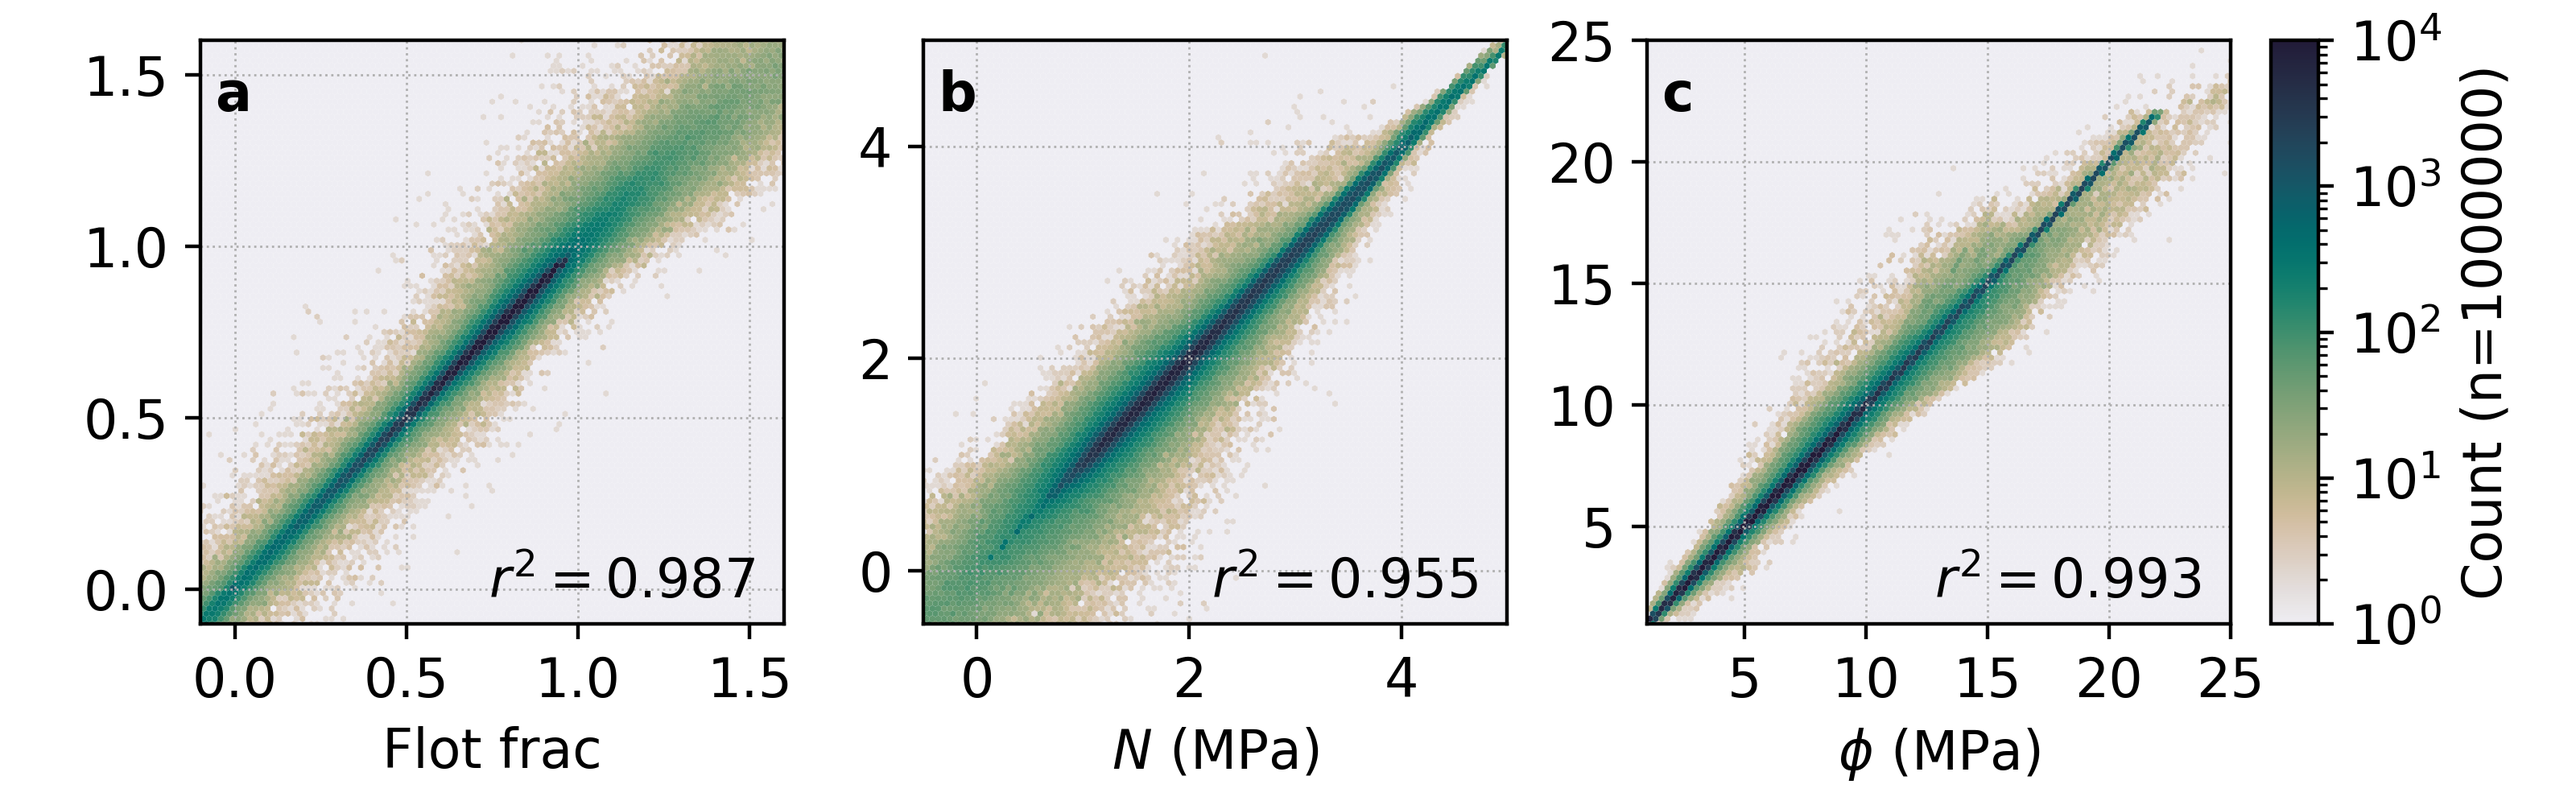
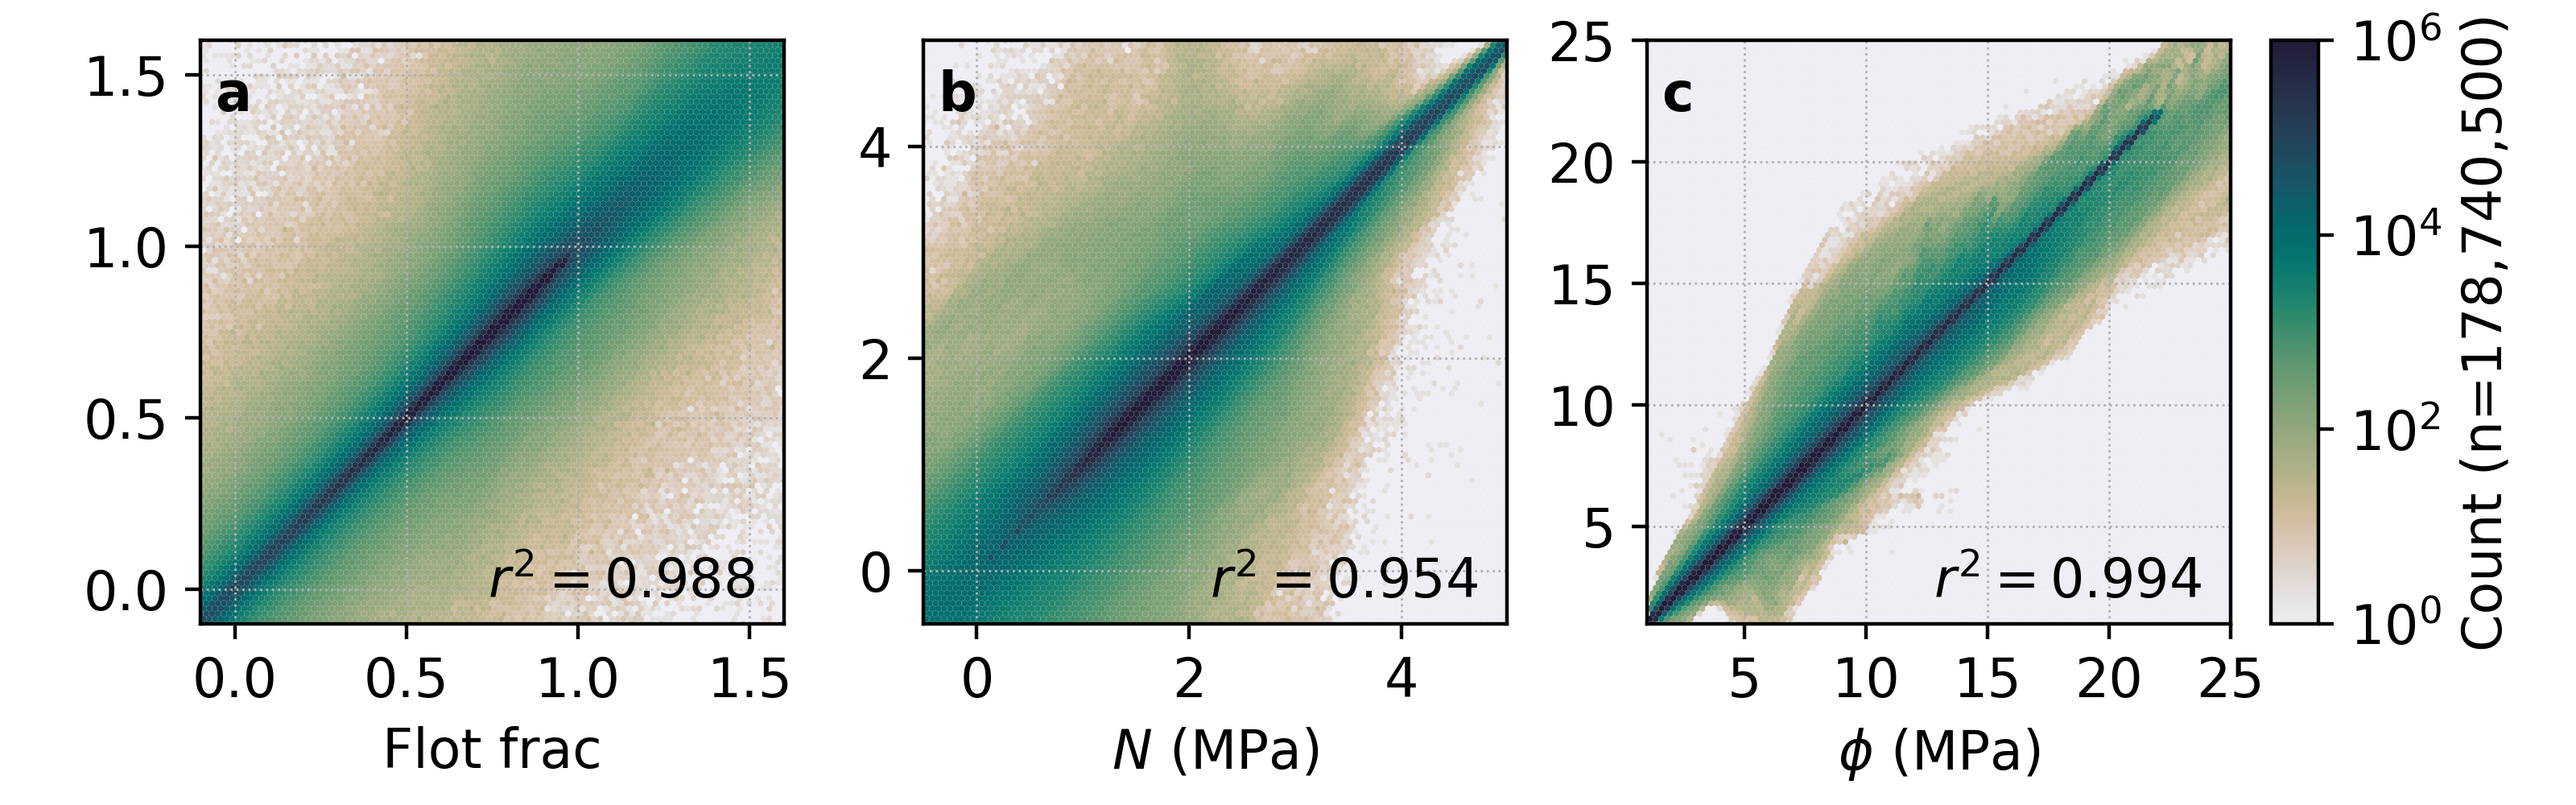
Scatter plot all data

diff --git a/experiments/greenland/analysis/plot_test_error.py b/experiments/greenland/analysis/plot_test_error.py
@@ -216,15 +216,15 @@ def plot_scatter(config, y_sim, ypred_mean):
     axs = np.array([fig.add_subplot(gs[2*i]) for i in range(3)])
     cax = fig.add_subplot(gs[-1])
     rng = np.random.default_rng()
-    rng_inds = rng.choice(np.arange(int(np.prod(y_sim.shape)/2)), size=int(1e6), replace=False)
-    y_sim_scatter = y_sim.flat[rng_inds]
-    y_pred_scatter = ypred_mean.flat[rng_inds]
+    # rng_inds = rng.choice(np.arange(int(np.prod(y_sim.shape)/2)), size=int(1e6), replace=False)
+    y_sim_scatter = y_sim.flatten()
+    y_pred_scatter = ypred_mean.flatten()
 
     # surf = 390 + 6*( (np.sqrt(nodexy[:, 0] + 5e3) - np.sqrt(5e3)))
     # bed = 350
     # thick = surf - bed
-    surf = np.load('../issm/data/geom/IS_surface.npy')
-    bed = np.load('../issm/data/geom/IS_bed.npy')
+    surf = np.load('../issm/data/geom/IS_surface.npy').astype(np.float32)
+    bed = np.load('../issm/data/geom/IS_bed.npy').astype(np.float32)
     thick = surf - bed
     thick[thick<10] = 10
 
@@ -233,20 +233,20 @@ def plot_scatter(config, y_sim, ypred_mean):
     g = 9.8
 
     p_i_spatial = g*rho_i*thick
-    p_i = np.tile(np.vstack(p_i_spatial), (1, 365))
+    p_i = np.tile(np.vstack(p_i_spatial, dtype=np.float32), (1, 365))
     p_i = np.tile(p_i, (config.m, 1, 1))
     p_i = p_i.reshape(y_sim.shape)
 
     bed = np.tile(np.vstack(bed), (1, 365))
     bed = np.tile(bed, (config.m, 1, 1))
     bed = bed.reshape(y_sim.shape)
-    bed_scatter = bed.flat[rng_inds]
+    bed_scatter = bed.flatten()
 
-    print('y_sim.shape:', y_sim.shape)
-    print('ypred_mean.shape:', ypred_mean.shape)
-    print('p_i.shape:', p_i.shape)
+    print('y_sim.shape:', y_sim.shape, y_sim.dtype)
+    print('ypred_mean.shape:', ypred_mean.shape, ypred_mean.dtype)
+    print('p_i.shape:', p_i.shape, p_i.dtype)
 
-    p_i_scatter = p_i.flat[rng_inds]
+    p_i_scatter = p_i.flatten()
     N_sim_scatter = p_i_scatter*(1 - y_sim_scatter)
     N_pred_scatter = p_i_scatter*(1 - y_pred_scatter)
 
@@ -266,7 +266,7 @@ def plot_scatter(config, y_sim, ypred_mean):
     phi_max = 2.5e7/1e6
     phi_ticks = [5, 10, 15, 20, 25]
 
-    countnorm = colors.LogNorm(vmin=1e0, vmax=1e4, clip=True)
+    countnorm = colors.LogNorm(vmin=1e0, vmax=1e6, clip=True)
 
     axs[0].hexbin(y_sim_scatter, y_pred_scatter, norm=countnorm,
         cmap=cmocean.cm.rain, gridsize=100, edgecolors='none',
@@ -314,7 +314,7 @@ def plot_scatter(config, y_sim, ypred_mean):
         fontweight='bold', ha='left', va='top')
 
     cbar = fig.colorbar(hb, cax=cax)
-    cbar.set_label('Count (n={})'.format(len(rng_inds)))
+    cbar.set_label('Count (n={:,})'.format(len(y_sim_scatter)))
 
     for ax in axs:
         ax.grid(linestyle=':', linewidth=0.5)
